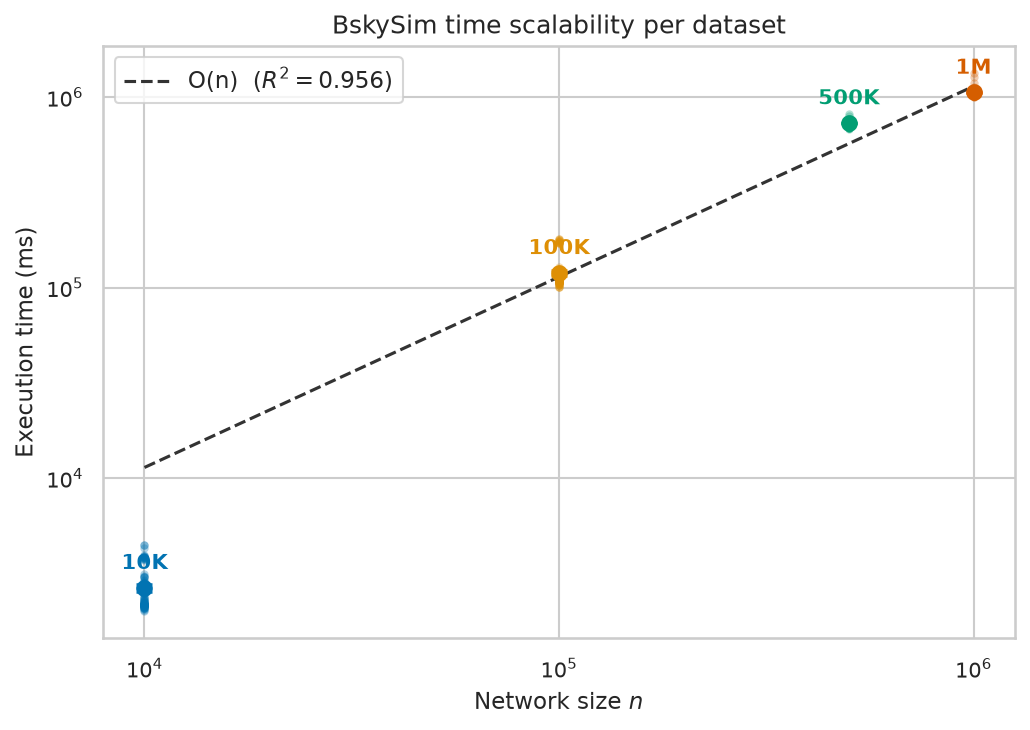
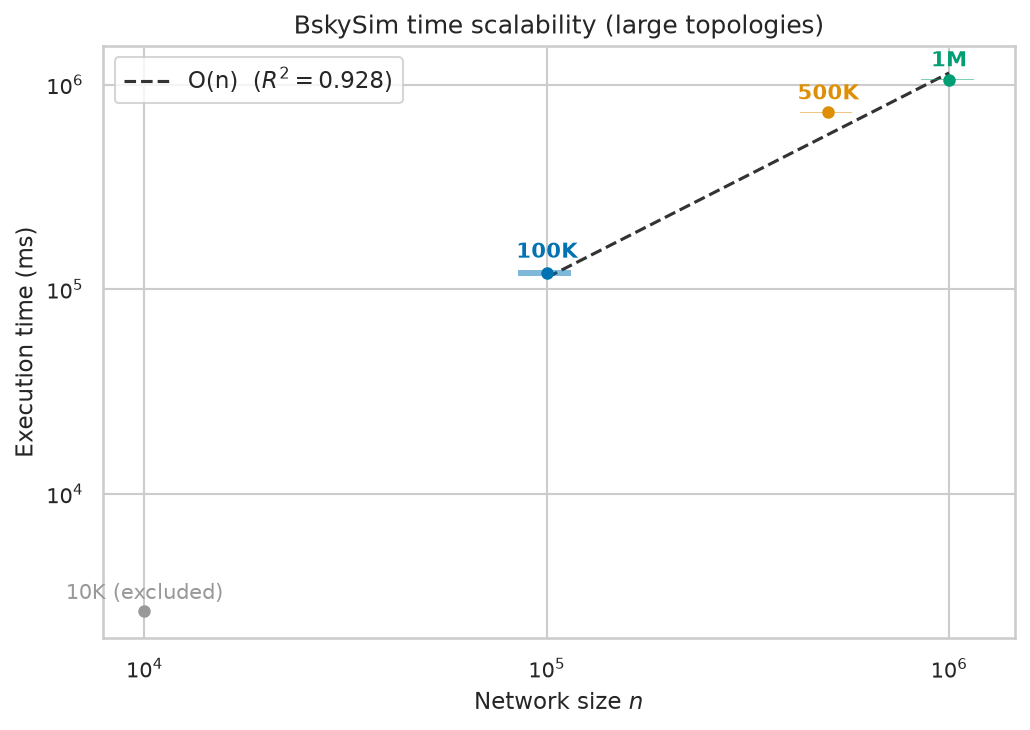
New graph

diff --git a/python-utils/plot_time_complexity.py b/python-utils/plot_time_complexity.py
@@ -14,6 +14,7 @@ from pathlib import Path
 import matplotlib.pyplot as plt
 import numpy as np
 import seaborn as sns
+from matplotlib.patches import Rectangle
 
 HERE = Path(__file__).parent
 ROOT = HERE.parent
@@ -23,6 +24,7 @@ OUTPUT.mkdir(exist_ok=True)
 
 SIZES = ["10K", "100K", "500K", "1M"]
 N = {"10K": 1e4, "100K": 1e5, "500K": 5e5, "1M": 1e6}
+EXCLUDED = {"10K"}  # ponytail: measurement outlier (too fast vs linear trend)
 
 # Thesis styling (firehose-analysis/AGENTS.md): whitegrid, LaTeX, 11pt base.
 sns.set_theme(style="whitegrid")
@@ -55,11 +57,13 @@ def main() -> None:
         if (TRACES / s / "execution_times.ssv").exists()
     }
     sizes = [s for s in SIZES if s in data]
-    if len(sizes) < 2:
-        raise SystemExit(f"Need at least 2 sizes; found only {sizes}")
+    fit_sizes = [s for s in sizes if s not in EXCLUDED]
+    outliers = [s for s in sizes if s in EXCLUDED]
+    if len(fit_sizes) < 2:
+        raise SystemExit(f"Need at least 2 non-excluded sizes; found only {fit_sizes}")
 
-    n = np.array([N[s] for s in sizes])
-    mean = np.array([data[s].mean() for s in sizes])
+    n = np.array([N[s] for s in fit_sizes])
+    mean = np.array([data[s].mean() for s in fit_sizes])
 
     # Through-origin candidate models t = a * f(n); pick the best by R².
     ss_tot = np.sum((mean - mean.mean()) ** 2)
@@ -74,29 +78,38 @@ def main() -> None:
 
     name, a, r2 = best
     p, logc = np.polyfit(np.log(n), np.log(mean), 1)
-    print(f"\nBest model: {name} (R2={r2:.4f})  ->  time = {a:.4g} * {name.lstrip('O(').rstrip(')')} ms")
+    print(f"\nFit over: {', '.join(fit_sizes)}  (excluded: {', '.join(outliers)})")
+    print(f"Best model: {name} (R2={r2:.4f})  ->  time = {a:.4g} * {name.lstrip('O(').rstrip(')')} ms")
     print(f"Free power-law exponent: p = {p:.3f}")
 
     print(f"\n{'Size':<6} {'n runs':>7} {'Mean (ms)':>12} {'Median (ms)':>12}")
     print("-" * 42)
-    for s in sizes:
+    for s in fit_sizes:
         ts = data[s]
         print(f"{s:<6} {len(ts):>7} {ts.mean():>12.0f} {np.median(ts):>12.0f}")
 
     # ---- Plot (one figure, one png) ----
-    palette = sns.color_palette("colorblind", len(sizes))
+    palette = sns.color_palette("colorblind", len(fit_sizes))
     fig, ax = plt.subplots(figsize=(7, 5))
 
-    for s, color in zip(sizes, palette):
+    for s, color in zip(fit_sizes, palette):
         ts = data[s]
+        mu = ts.mean()
         ci = 1.96 * ts.std(ddof=1) / np.sqrt(len(ts))
-        ax.scatter([N[s]] * len(ts), ts, s=16, alpha=0.3,
-                   color=color, linewidths=0)
-        ax.errorbar([N[s]], [ts.mean()], yerr=[ci], fmt="o", ms=7,
-                    color=color, capsize=4, capthick=1.2, zorder=5)
-        ax.annotate(s, (N[s], ts.mean()), textcoords="offset points",
-                    xytext=(0, 9), ha="center", fontsize=10,
+        w = 0.3 * N[s]
+        ax.add_patch(Rectangle((N[s] - w / 2, mu - ci), w, 2 * ci,
+                               facecolor=color, alpha=0.5, edgecolor="none",
+                               zorder=4))
+        ax.plot([N[s]], [mu], marker="o", ms=5, color=color, zorder=5)
+        ax.annotate(s, (N[s], mu + ci), textcoords="offset points",
+                    xytext=(0, 6), ha="center", fontsize=10,
                     fontweight="bold", color=color)
+
+    for s in outliers:
+        mu = data[s].mean()
+        ax.plot([N[s]], [mu], marker="o", ms=5, color="0.6", zorder=5)
+        ax.annotate(f"{s} (excluded)", (N[s], mu), textcoords="offset points",
+                    xytext=(0, 6), ha="center", fontsize=10, color="0.6")
 
     n_fit = np.geomspace(n.min(), n.max(), 100)
     ax.plot(n_fit, a * basis(name, n_fit), "--", color="0.2", lw=1.5,
@@ -106,7 +119,7 @@ def main() -> None:
     ax.set_yscale("log")
     ax.set_xlabel("Network size $n$")
     ax.set_ylabel("Execution time (ms)")
-    ax.set_title("BskySim time scalability per dataset")
+    ax.set_title("BskySim time scalability (large topologies)")
     ax.legend()
 
     fig.tight_layout()
